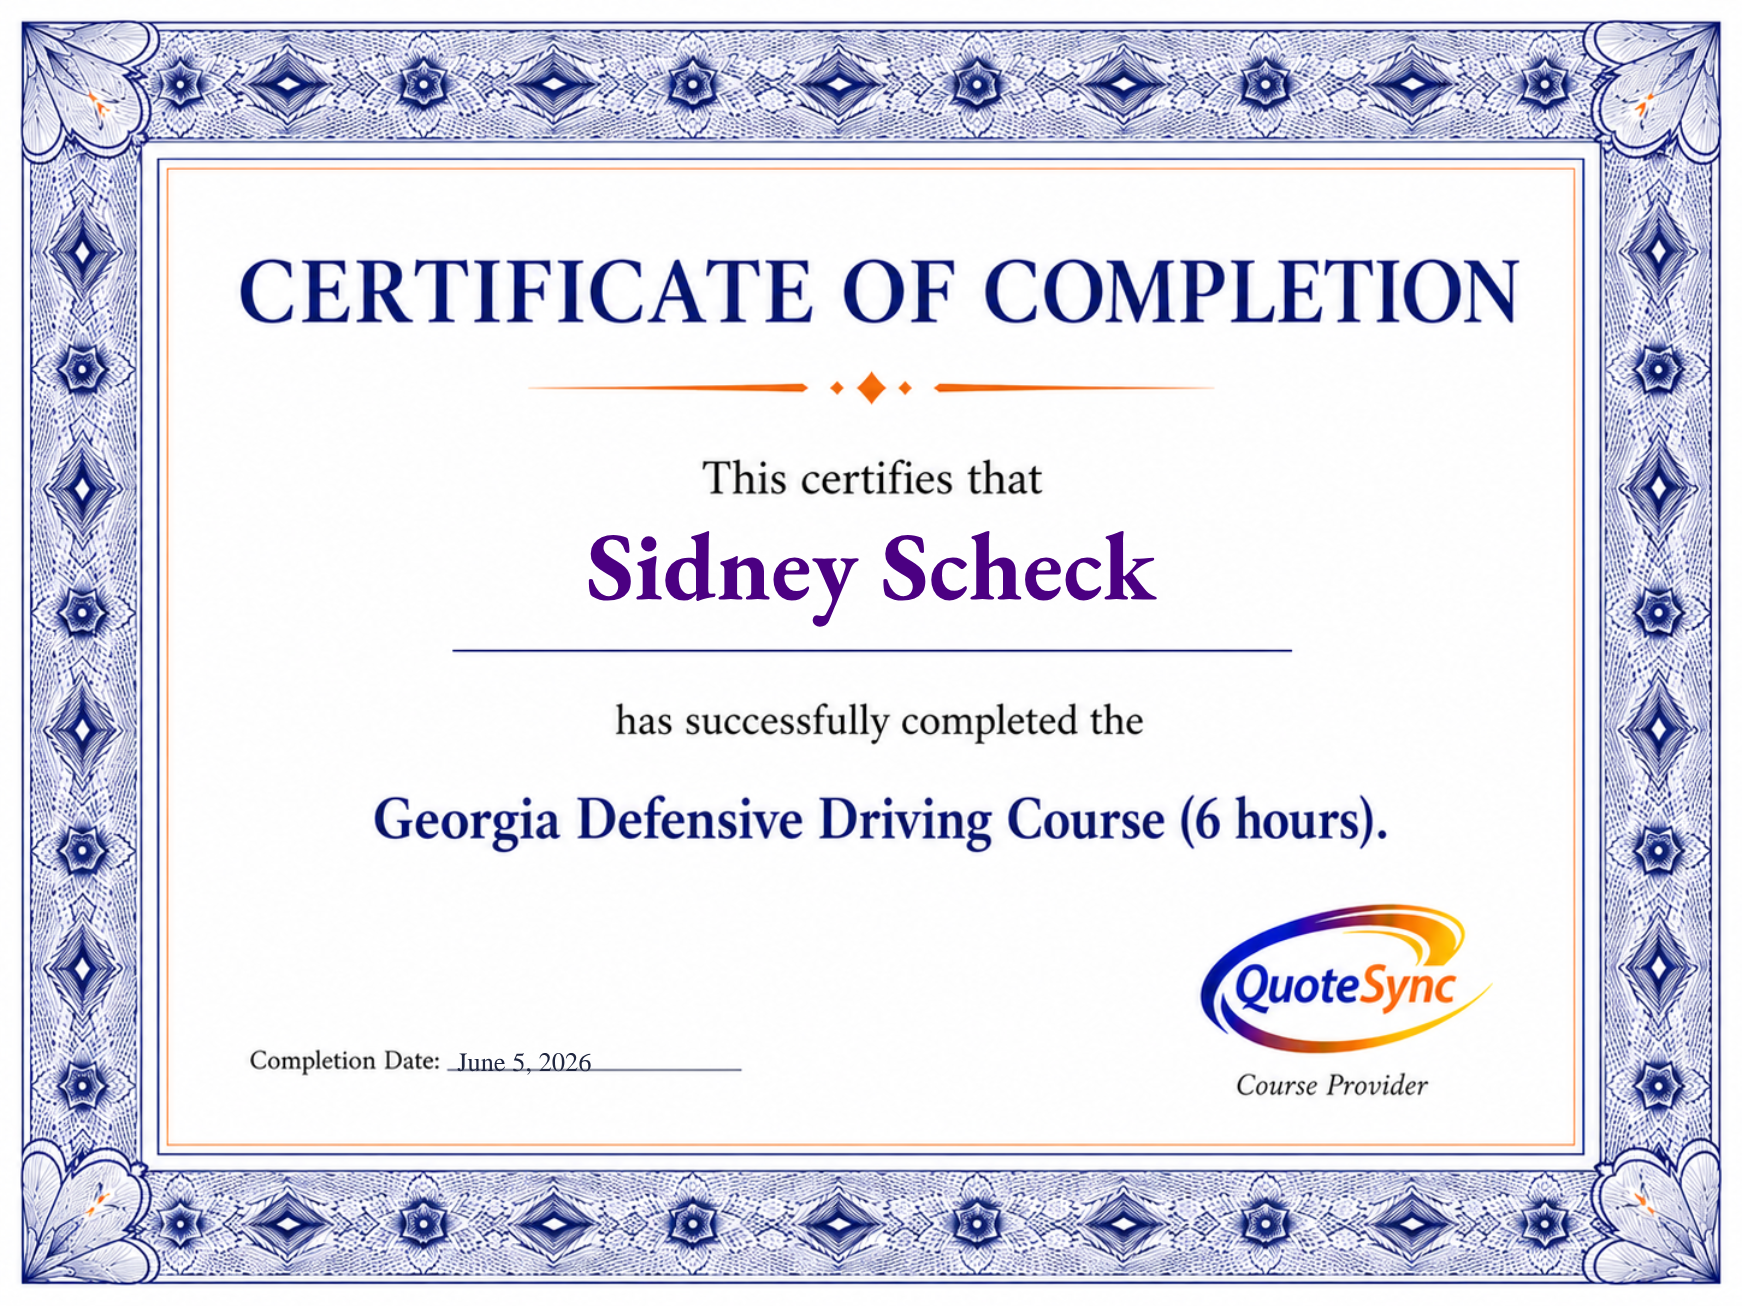
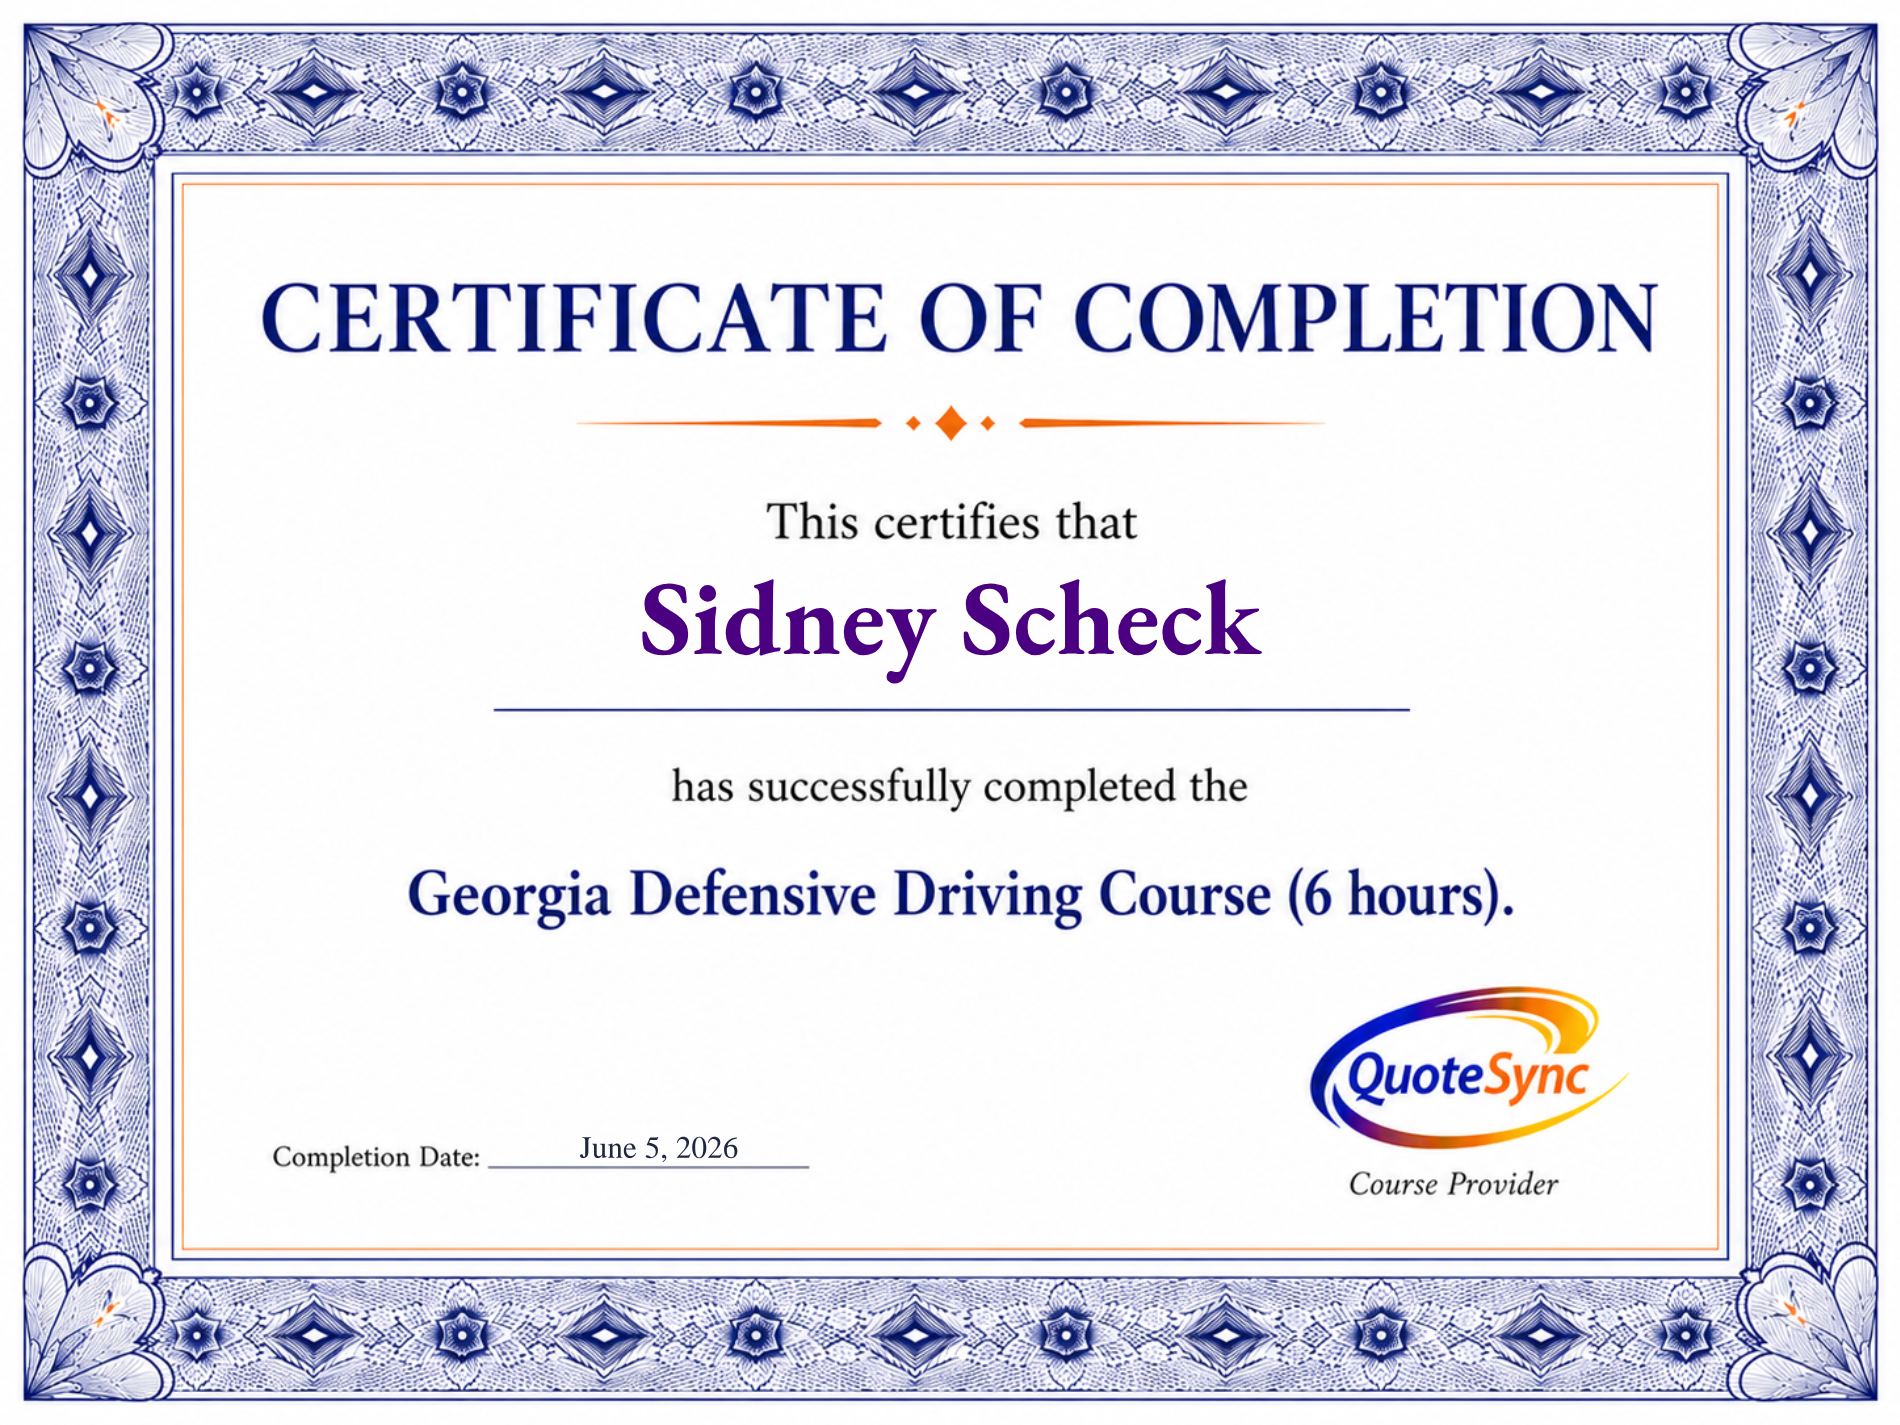
DD certificate: center completion date over its line, raised (pending verification; not deployed)

diff --git a/supabase/functions/dd-issue-certificate/index.ts b/supabase/functions/dd-issue-certificate/index.ts
@@ -112,8 +112,10 @@ async function buildPdf(opts: {
     const nw = nameFont.widthOfTextAtSize(opts.studentName, ns)
     page.drawText(opts.studentName, { x: PW / 2 - nw / 2, y: Y(498), size: ns, font: nameFont, color: rgb(0.294, 0, 0.510) })
 
-    // Completion date on its line.
-    page.drawText(opts.completionDate, { x: X(380), y: Y(890), size: 12, font: serif, color: rgb(0.12, 0.15, 0.25) })
+    // Completion date — centered over the line, raised slightly.
+    const dsz = 13
+    const dw = serif.widthOfTextAtSize(opts.completionDate, dsz)
+    page.drawText(opts.completionDate, { x: X(502) - dw / 2, y: Y(882), size: dsz, font: serif, color: rgb(0.12, 0.15, 0.25) })
     return await pdf.save()
   }
 
